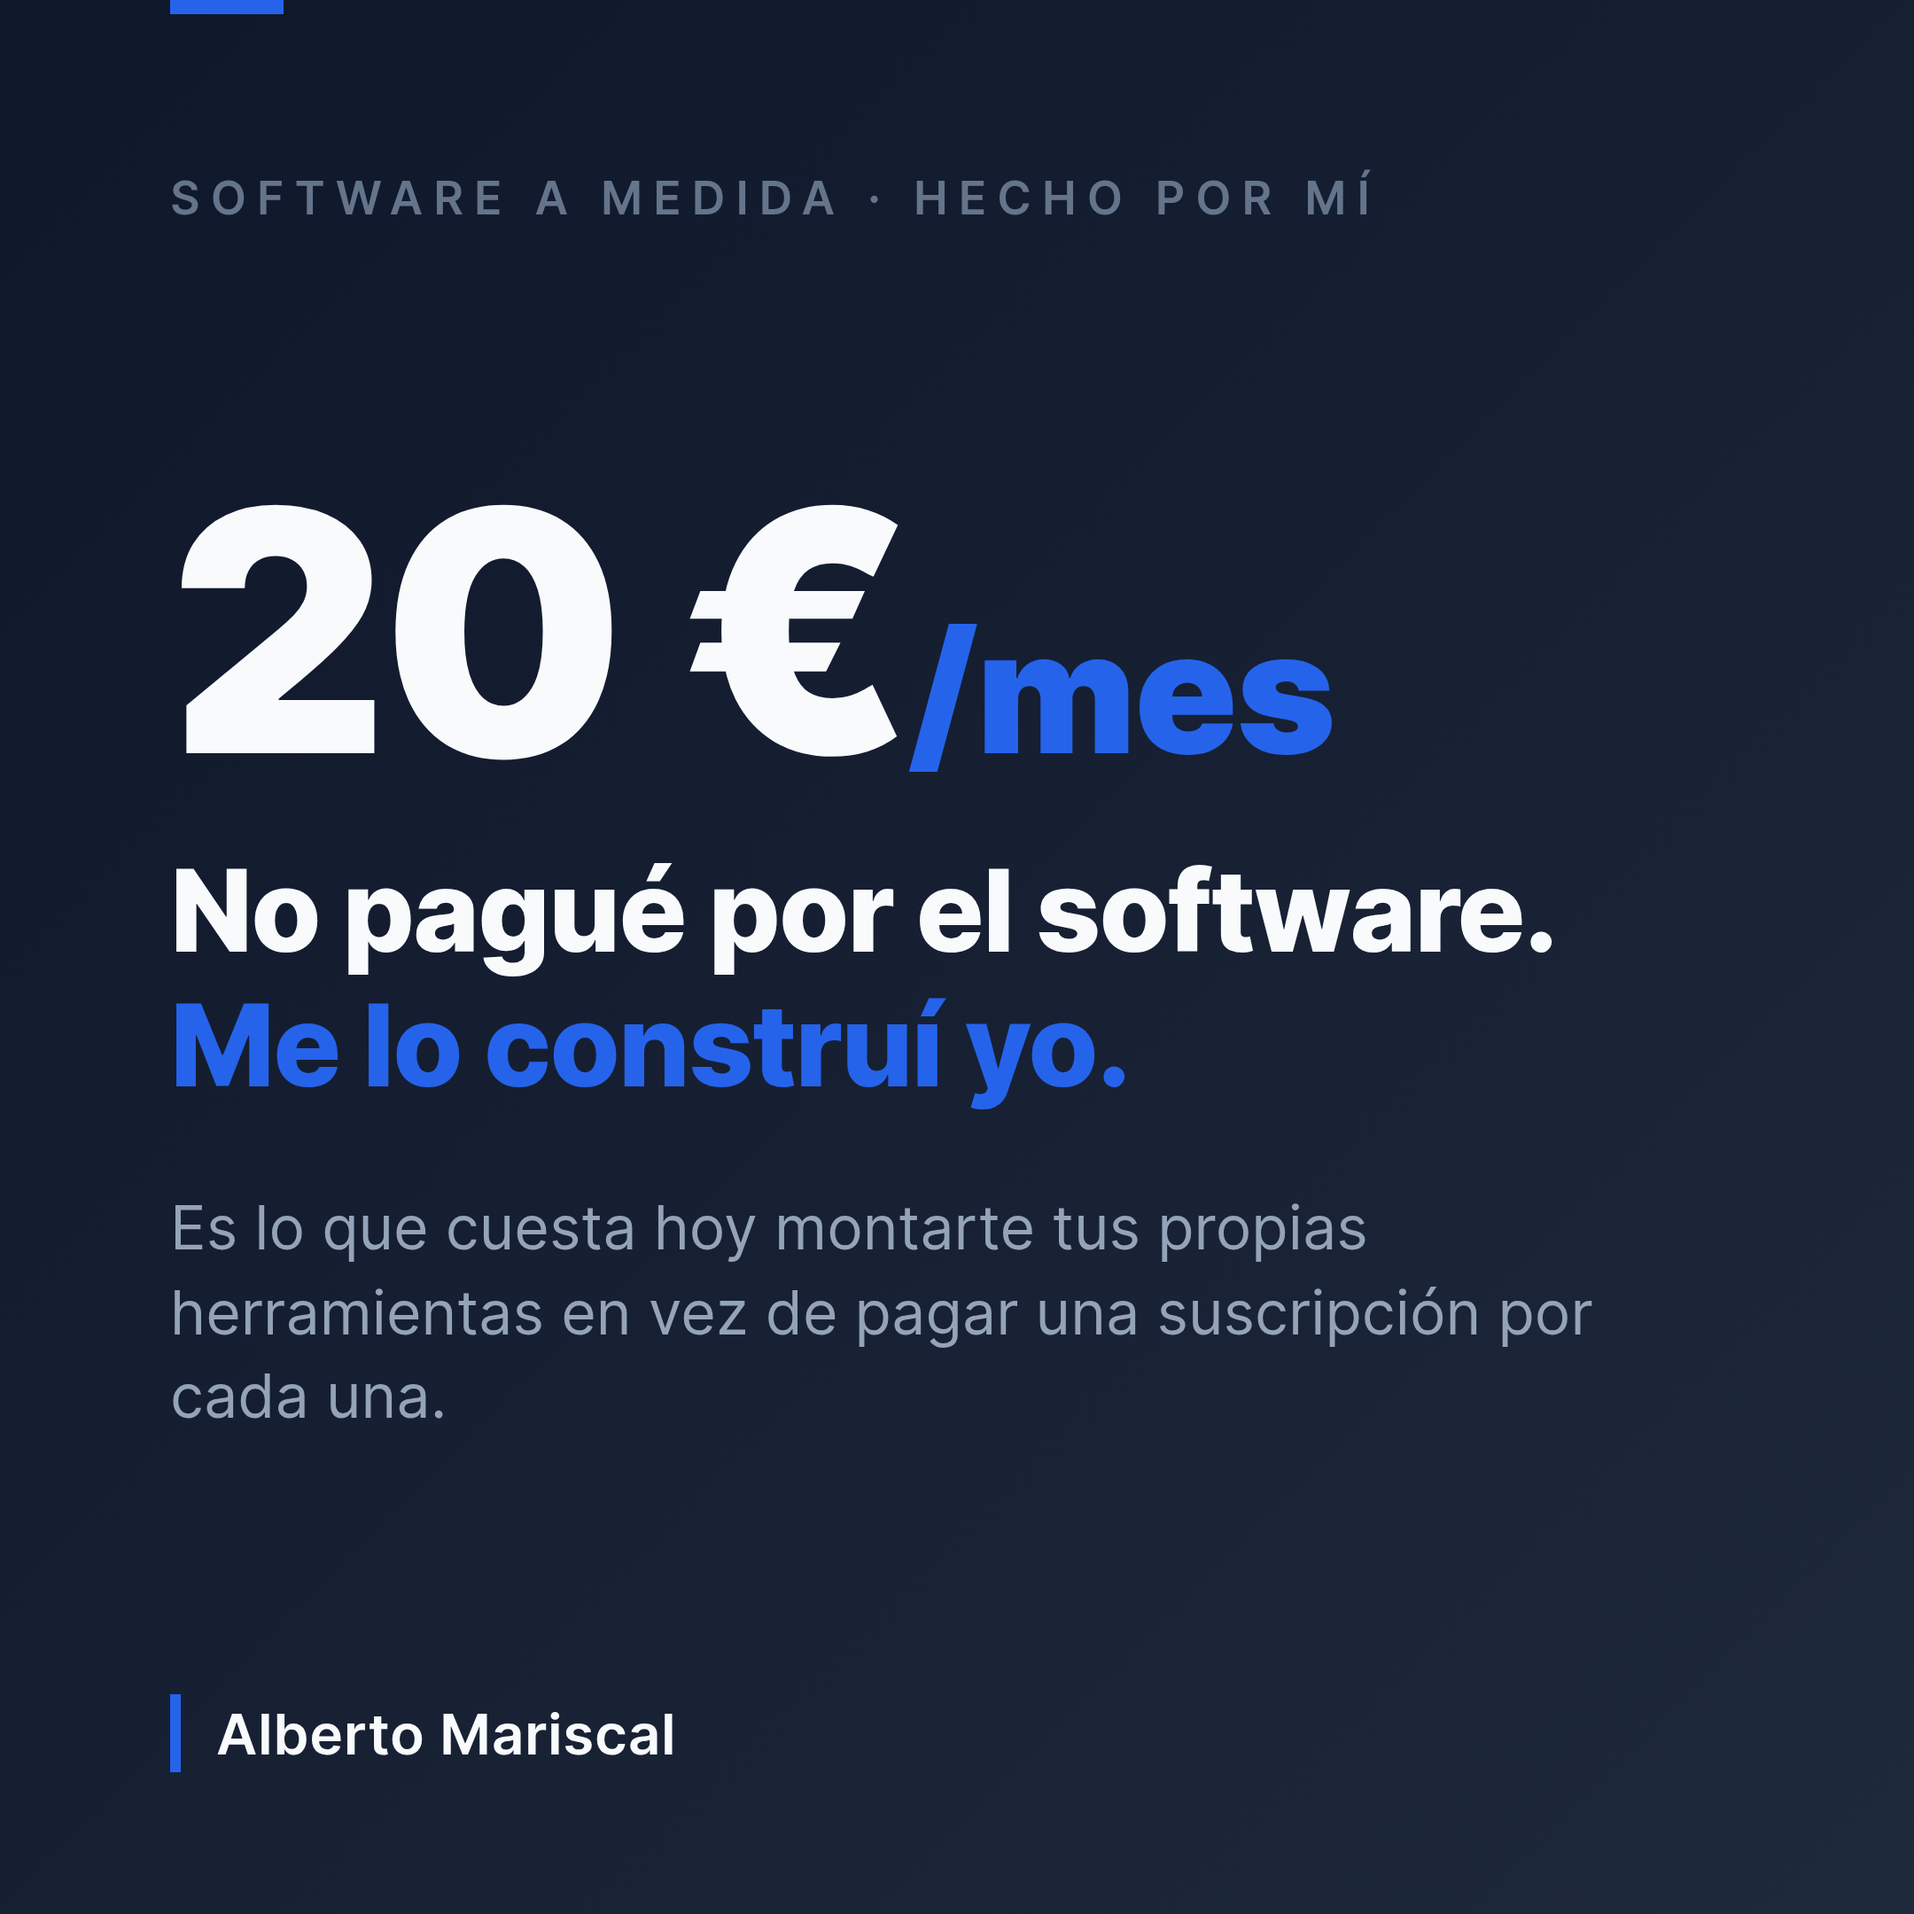
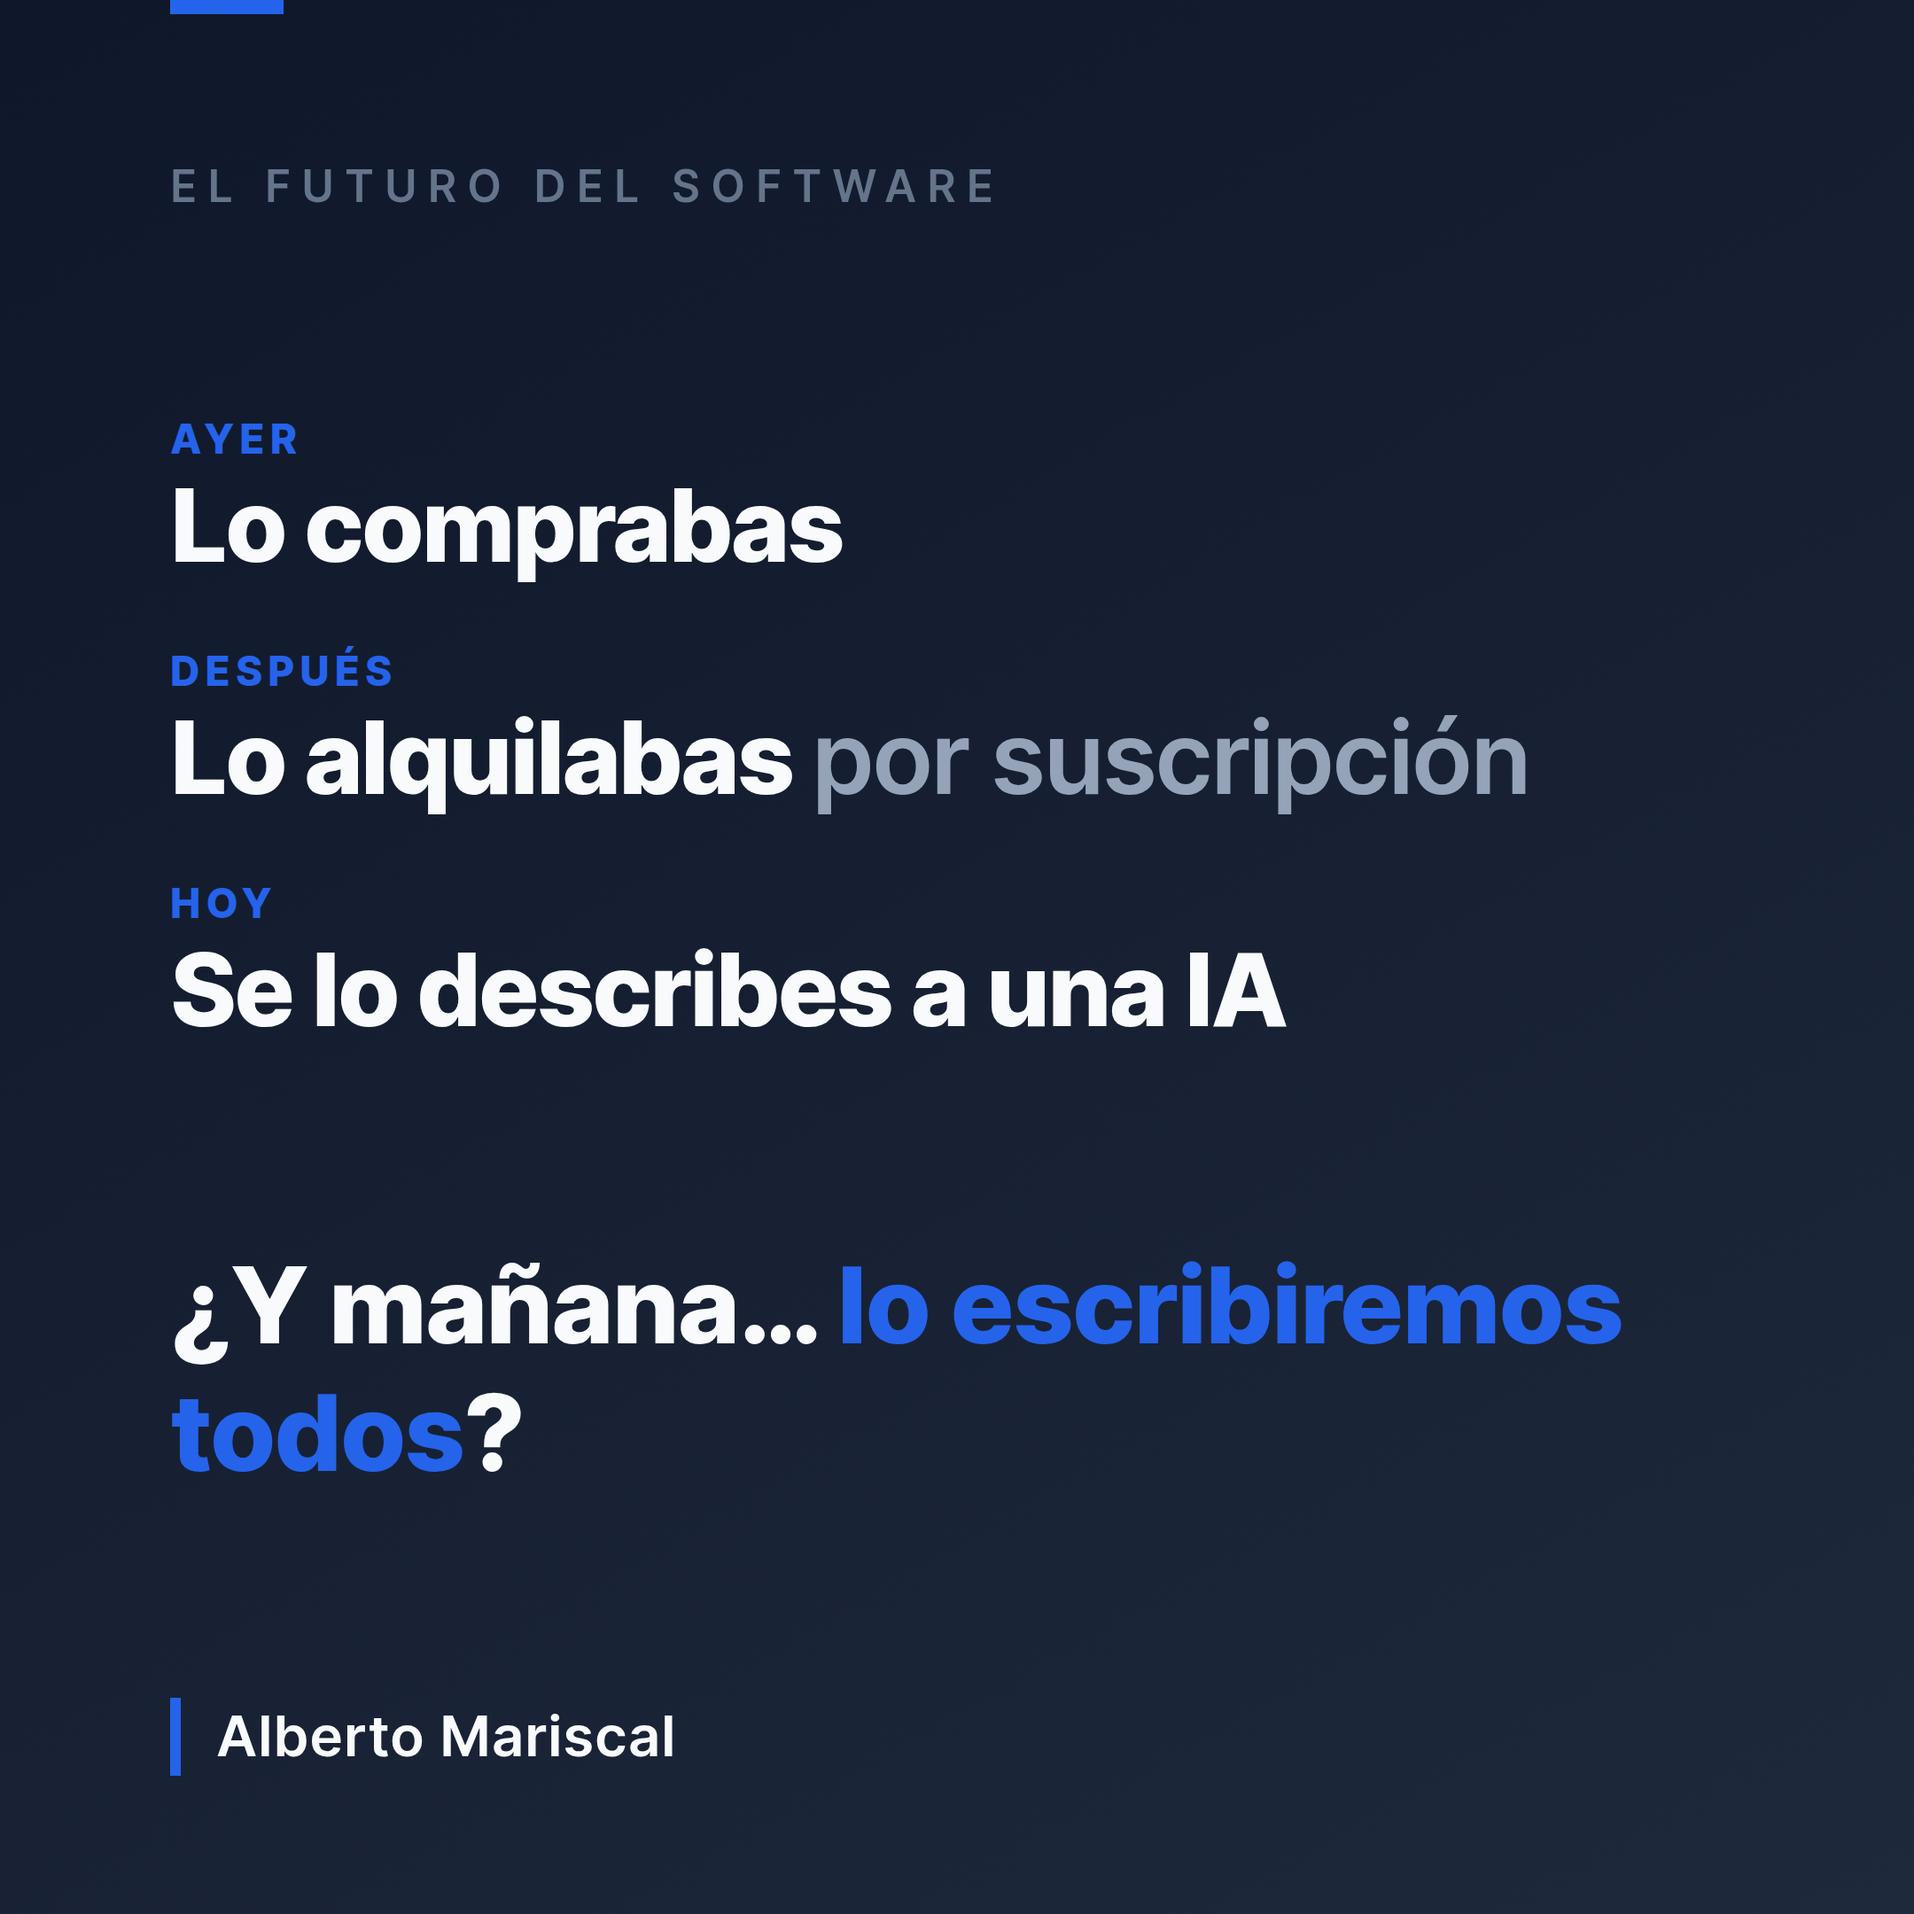
Post LinkedIn (crea tus herramientas): infografia reflexiva sobre el futuro del software
Rehecha la imagen: en vez de la tarjeta de precio, una tarjeta editorial
'El futuro del software' (ayer se compraba, hoy se describe a una IA,
manana quiza lo escribamos todos). Texto del post alineado con ese arco.

Claude-Session: https://claude.ai/code/session_01VDbZ1gUieXmYqenktNxdbL

diff --git a/contenido-linkedin/posts/2026-07-23-crea-tus-herramientas/post.md b/contenido-linkedin/posts/2026-07-23-crea-tus-herramientas/post.md
@@ -3,7 +3,7 @@
 **Estado:** Listo para publicar
 **Fecha prevista:** jueves 2026-07-23 (tercer post; el 2º va el martes 21/07)
 **Línea de contenido:** Caso/evidencia real — herramienta que Alberto ha construido él mismo con Claude Code. Doble lectura: reclutador (Head of Data) lee competencia práctica con herramientas de IA agéntica; dueño de pyme lee que la IA resuelve problemas concretos por muy poco dinero. No es pitch de venta de la consultoría.
-**Imágenes:** `frase.png` — tarjeta tipo "cifra destacada" (≈20 €/mes), fondo oscuro, siguiendo `contenido-linkedin/guia-estilo-visual.md`.
+**Imágenes:** `frase.png` — tarjeta reflexiva "El futuro del software" (ayer se compraba → hoy se describe a una IA → ¿mañana lo escribimos todos?), fondo azul noche, siguiendo `contenido-linkedin/guia-estilo-visual.md`.
 **Repo referenciado:** `almariscal/personal_tools` → carpeta `dni-watermark`. Recomendación LinkedIn: poner el enlace en el **primer comentario**, no en el cuerpo (LinkedIn penaliza el alcance de los posts con enlace externo en el texto). En el cuerpo, "enlace en comentarios".
 
 ---
@@ -20,9 +20,11 @@ No pagué por ningún software. No busqué una app, ni una suscripción, ni un "
 
 Hace dos años esto era impensable para quien no tuviera una tarde libre para programar. Hoy describes en español lo que quieres y lo tienes funcionando.
 
-Lo dejo caer como pregunta, no como sentencia: ¿cuánto software de pago sobrevive cuando cualquiera puede construirse la versión justa que necesita —sin lo que le sobra— por 20 € al mes?
+Y me quedé pensando en cómo ha cambiado la forma de tener software. Antes lo comprabas. Luego pasó a alquilarse: una suscripción por cada cosa. Hoy, cada vez más, se lo describes a una IA y lo tienes. ¿Y mañana? Puede que acabemos escribiéndonos cada uno el nuestro.
 
 No hablo de sustituir un ERP. Hablo de las mil pequeñas herramientas que hoy pagamos —convertir, renombrar, marcar, limpiar, cruzar dos Excels— y que podríamos tener hechas a nuestra medida.
+
+Lo dejo caer como pregunta, no como sentencia: ¿de verdad seguiremos pagando por software que podemos construirnos en una tarde?
 
 Si no lo habéis probado, echadle un ojo a Claude Code. No es "para programadores": es para cualquiera que tenga un problema concreto y sepa explicarlo. Poco a poco te montas tu propia navaja suiza: herramientas que hacen exactamente lo que tú necesitas, y nada más.
 
